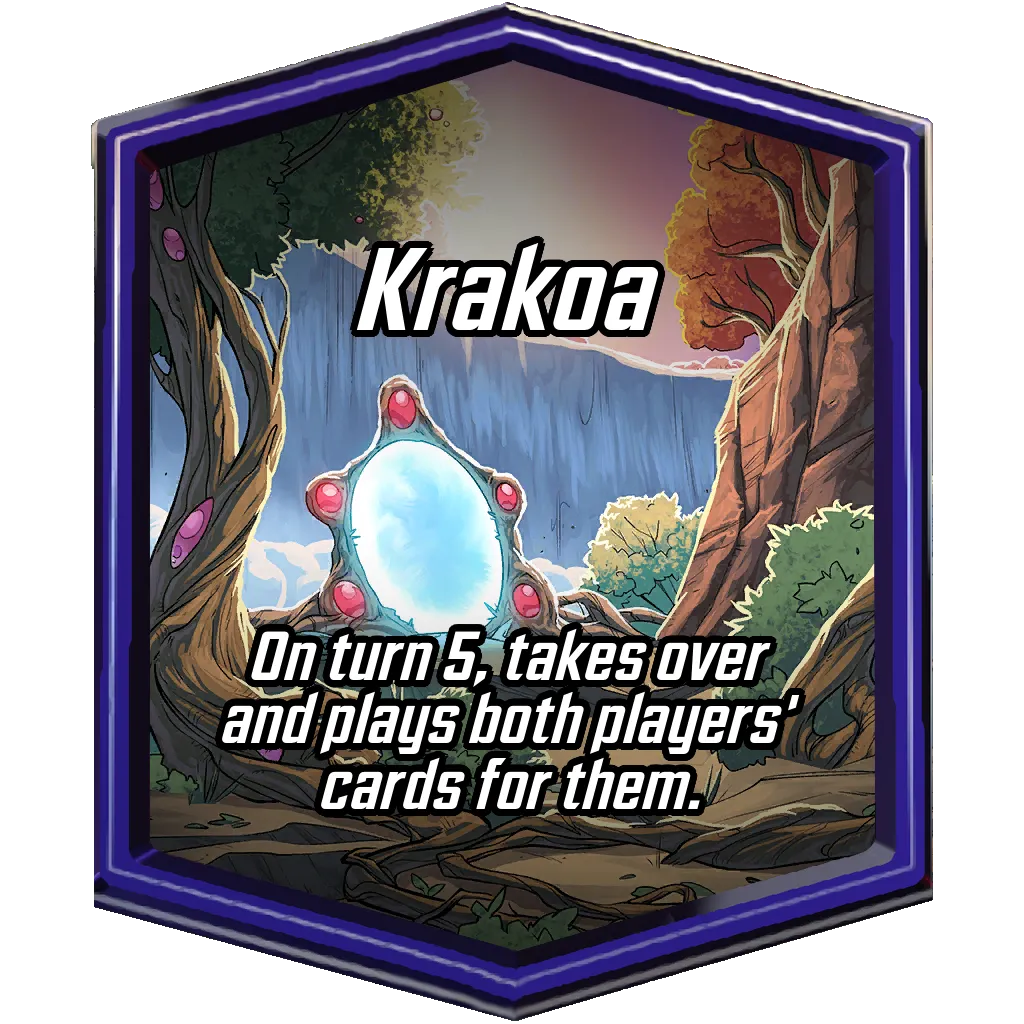
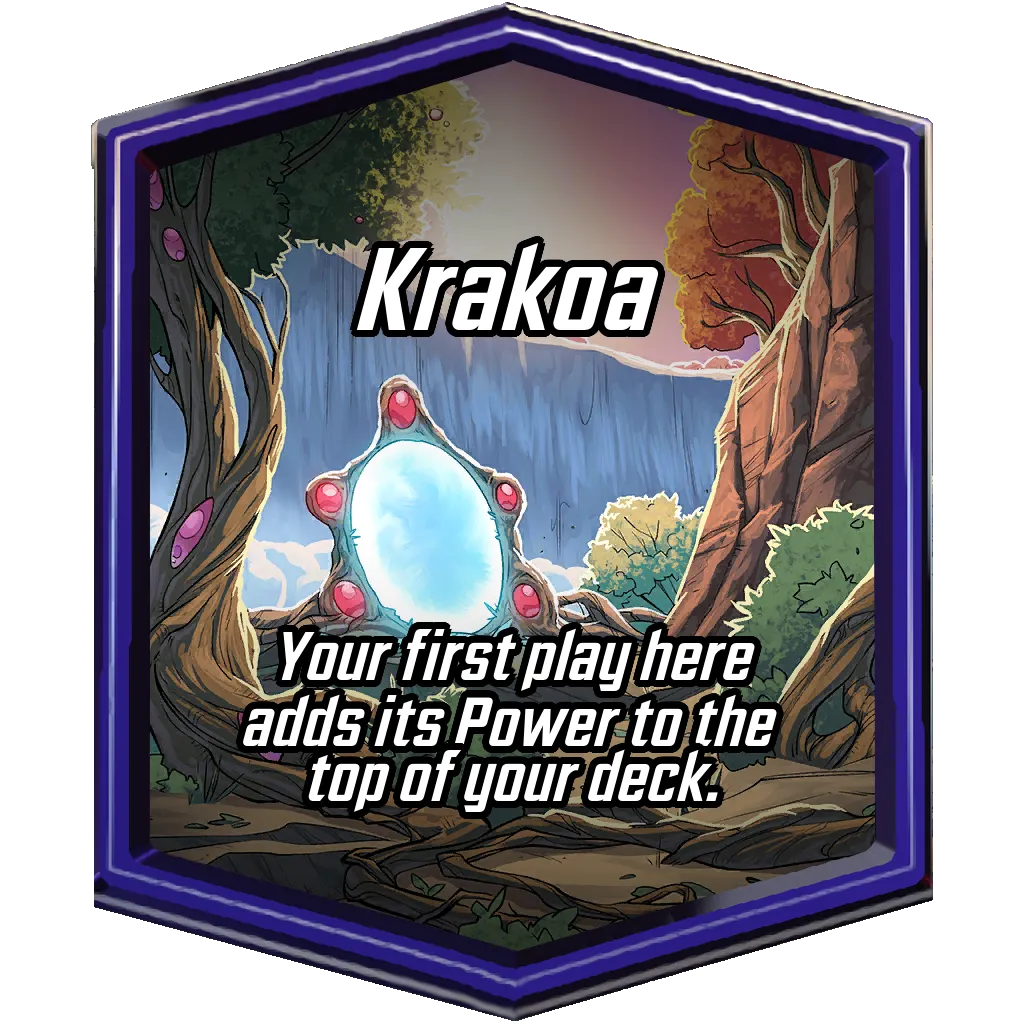
スポトレ修正

Changed region(s): [[0.1875, 0.5938, 0.7812, 0.8125]]

diff --git a/locationlist.html b/locationlist.html
@@ -49,6 +49,7 @@
       <li><a href="locationtext/kyln.html">キルン</a></li>
       <li><a href="locationtext/crown-city.html">クラウン・シティ</a></li>
       <li><a href="locationtext/rickety-bridge.html">グラグラする橋</a></li>
+      <li><a href="locationtext/krakoa.html">クラコア</a></li>
       <li><a href="locationtext/grand-central.html">グランド・セントラル</a></li>
       <li><a href="locationtext/crimson-cosmos.html">クリムゾン・コスモス</a></li>
       <li><a href="locationtext/klyntar.html">クリンター</a></li>
@@ -159,6 +160,7 @@
     <section id="section8">
       <h2>ヤ行</h2>
       <li><a href="locationtext/yashida-base.html">ヤシダベース</a></li>
+      <li><a href="locationtext/utopia.html">ユートピア</a></li>
       <li><a href="locationtext/jotunheim.html">ヨトゥンヘイム</a></li>
       
     </section>

diff --git a/locationtext/krakoa.html b/locationtext/krakoa.html
@@ -1,0 +1,22 @@
+<!DOCTYPE html>
+<html lang="ja">
+<head>
+  <script src="../analytics.js"></script>
+  <script src="../index_header.js"></script>
+  <link rel="stylesheet" type="text/css" href="../index.css">
+  <link rel="stylesheet" type="text/css" href="../text.css">
+
+    <meta charset="UTF-8">
+    <meta name="viewport" content="width=device-width, initial-scale=1.0">
+    <title>クラコア</title>
+    
+</head>
+<body>
+    <section>
+      <img src="../locationimage/krakoa.webp" alt="krakoa" width="300">
+      <h2>クラコア</h2>
+      <p>自分が初めてここにプレイしたカードのパワーを、自分のデッキの一番上のカードに加える。</p>
+    </section>
+
+</body>
+</html>

diff --git a/locationtext/utopia.html b/locationtext/utopia.html
@@ -1,0 +1,22 @@
+<!DOCTYPE html>
+<html lang="ja">
+<head>
+  <script src="../analytics.js"></script>
+  <script src="../index_header.js"></script>
+  <link rel="stylesheet" type="text/css" href="../index.css">
+  <link rel="stylesheet" type="text/css" href="../text.css">
+
+    <meta charset="UTF-8">
+    <meta name="viewport" content="width=device-width, initial-scale=1.0">
+    <title>ユートピア</title>
+    
+</head>
+<body>
+    <section>
+      <img src="../locationimage/utopia.webp" alt="utopia" width="300">
+      <h2>ユートピア</h2>
+      <p>３と４コストカードのコストを－１する。</p>
+    </section>
+
+</body>
+</html>
